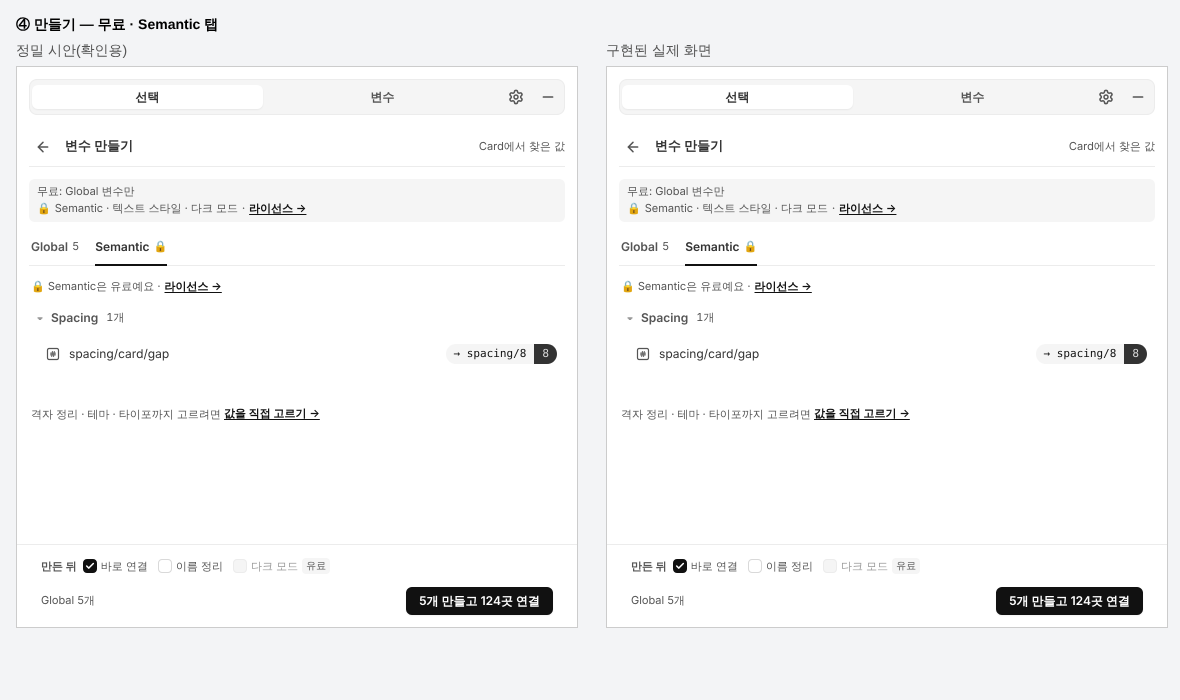
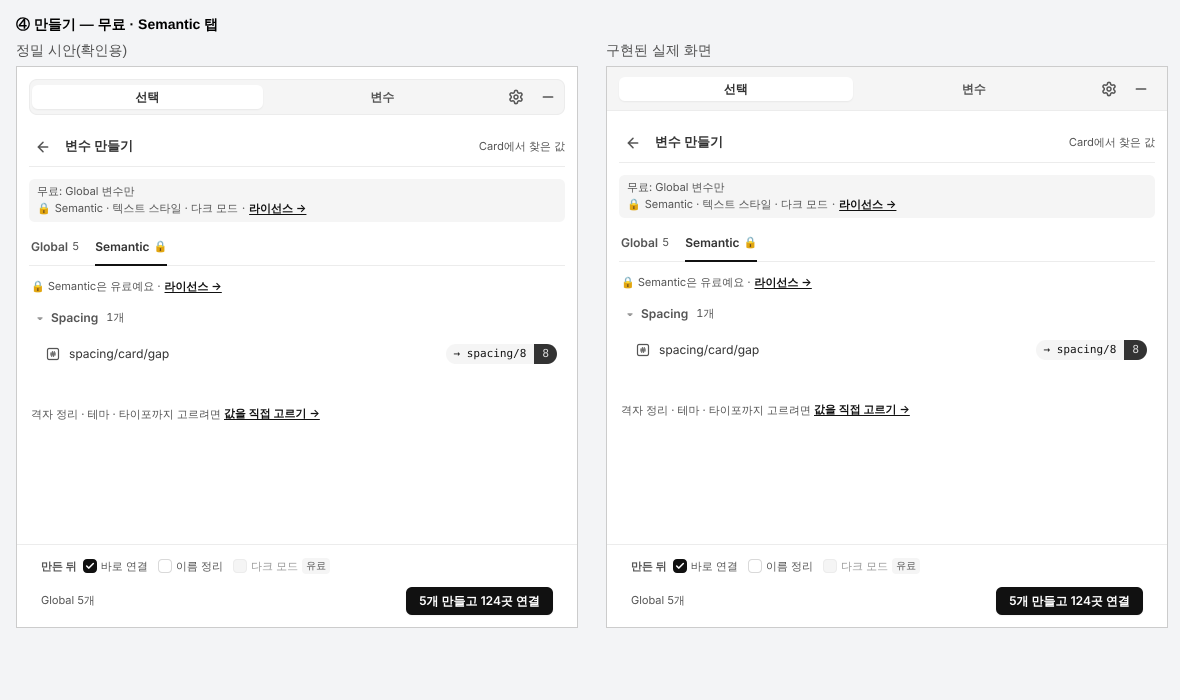
DS-3c S3-D20 구현 — 맨 위 탭 줄을 창 위 · 좌우에 붙은 띠로(Figma Tabs bar · 높이 44 새 토큰 size-tabs-bar)
- ui.html .tabs: 음수 바깥 여백으로 본문 여백 덮음 · 아래 1px 선 · 테두리/둥근 모서리 없음 · 안쪽 좌우 12, sticky 대체값 44 기준
- design-system 크기 표 · Navigation 행, verify 9번 기준 44 · DS-3c 탭 띠 검사, 실제 화면 docs/qa/ds3c

Claude-Session: https://claude.ai/code/session_01PEuwdZ56a69HwcFZB3F6pa

diff --git a/dist/ui.html b/dist/ui.html
@@ -187,6 +187,7 @@ SOFTWARE.
       --size-modal-md: 400px;
       --size-header: 40px;
       --size-nav: 36px;
+      --size-tabs-bar: 44px;
       --size-action-bar: 52px;
       --size-compact: 26px;
       --size-hit-min: 24px;
@@ -674,7 +675,7 @@ button.ds-tag { border: 0; cursor: pointer; }
        --head-top(= 두 바의 실제 높이)은 ui.ts가 측정해 넣는다. z-index는 두 바(3·2)보다 아래. */
     .step-head {
       display: flex; align-items: center; gap: var(--space-2); cursor: pointer; user-select: none;
-      position: sticky; top: var(--head-top, 71px); z-index: var(--z-raised);
+      position: sticky; top: var(--head-top, 44px); z-index: var(--z-raised);
       background: var(--color-surface-primary); padding-bottom: var(--space-2);
     }
     .step-head + .step-body { margin-top: 0; } /* 헤더 padding-bottom이 간격을 대신 — 본문이 비쳐 보이는 틈 방지 */
@@ -705,11 +706,12 @@ button.ds-tag { border: 0; cursor: pointer; }
     label.inline { display: inline-flex; gap: var(--space-1); align-items: center; color: var(--color-text-secondary); }
     .status { margin-top: var(--space-1); min-height: 15px; color: var(--color-text-secondary); }
 
-    /* ── 탭바 (세그먼트 컨트롤) ── */
+    /* ── 탭바 — 창 위 · 좌우에 붙은 띠(ia-v4 §4.1b S3-D20 — Figma Tabs bar): 본문 좌우 · 위 여백 12를 음수 바깥 여백으로 덮는다 ── */
     .tabs {
       display: flex; gap: var(--space-1); align-items: center; position: sticky; top: 0; z-index: var(--z-sticky-top);
-      background: var(--color-surface-secondary); border: 1px solid var(--color-border-default);
-      padding: var(--space-0-5); min-height: var(--size-nav); border-radius: var(--radius-medium); margin: 0 0 var(--space-3);
+      background: var(--color-surface-secondary); border: 0; border-bottom: 1px solid var(--color-border-default);
+      padding: 0 var(--space-3); min-height: var(--size-tabs-bar); border-radius: 0;
+      margin: calc(-1 * var(--space-3)) calc(-1 * var(--space-3)) var(--space-3);
     }
     .tab-list { display: flex; gap: var(--space-1); flex: 1 1 auto; min-width: 0; }
     /* [—] 최소화 — 24×24 이상(§2.10). */
@@ -872,7 +874,7 @@ button.ds-tag { border: 0; cursor: pointer; }
     .toolbar {
       display: flex; flex-wrap: wrap; gap: var(--space-1); align-items: center;
       padding-bottom: var(--space-2); border-bottom: 1px solid var(--color-border-default);
-      position: sticky; top: var(--toolbar-top, 95px); z-index: var(--z-raised); background: var(--color-surface-primary);
+      position: sticky; top: var(--toolbar-top, 70px); z-index: var(--z-raised); background: var(--color-surface-primary);
     }
     .toolbar .grow { flex: 1 1 auto; } /* 주 버튼을 오른쪽 끝으로 미는 공백 */
     /* 아래에 목록이 없는 카드(내보내기)는 구분선을 긋지 않는다 — 가를 것이 없다. */
@@ -1295,13 +1297,13 @@ button.ds-tag { border: 0; cursor: pointer; }
     .vt-group .lbl { overflow: hidden; text-overflow: ellipsis; white-space: nowrap; min-width: 0; }
     .vt-group .more-unused { flex: 0 0 auto; min-height: 24px; font-size: var(--font-size-sm); }
     /* ── 변수 목록 결정 B(§4.4): 머리줄 고정 · 사이드바(128px, 고정 + 따로 스크롤) · 오른쪽 목록 머리 고정 ── */
-    #varList .list-head { position: sticky; top: var(--tabs-h, 41px); z-index: var(--z-sticky-top); background: var(--color-background-primary); padding: var(--space-0-5) 0 var(--space-1); margin: 0; }
+    #varList .list-head { position: sticky; top: var(--tabs-h, 44px); z-index: var(--z-sticky-top); background: var(--color-background-primary); padding: var(--space-0-5) 0 var(--space-1); margin: 0; }
     .vl-split { display: flex; align-items: flex-start; border-top: 1px solid var(--color-border-default);
       /* 사이드바 아래까지 경계선(ia-v4 §4.6 B.41 VO-D2) — 사이드바 border-right와 같은 x 127px */
       background: linear-gradient(to right, transparent 127px, var(--color-border-default) 127px 128px, transparent 128px) no-repeat; }
     .vl-side {
-      width: 128px; flex: 0 0 128px; position: sticky; top: var(--side-top, 75px); align-self: flex-start;
-      max-height: calc(100vh - var(--side-top, 75px) - var(--toast-space-side, 0px)); overflow-y: auto; border-right: 1px solid var(--color-border-default);
+      width: 128px; flex: 0 0 128px; position: sticky; top: var(--side-top, 78px); align-self: flex-start;
+      max-height: calc(100vh - var(--side-top, 78px) - var(--toast-space-side, 0px)); overflow-y: auto; border-right: 1px solid var(--color-border-default);
       padding: var(--space-1) var(--space-1); background: var(--color-surface-primary);
     }
     .vs-item { display: flex; align-items: center; gap: var(--nav-item-gap); height: 28px; min-height: 28px; padding: 0 var(--space-2); border-radius: var(--radius-small); color: var(--color-text-primary); cursor: pointer; font-size: var(--font-size-md); font-weight: var(--font-weight-regular); }
@@ -1319,7 +1321,7 @@ button.ds-tag { border: 0; cursor: pointer; }
     .vs-item[aria-selected="true"] .vs-badge { background: var(--nav-selected-badge-bg); color: var(--color-text-inverse); }
     .vs-sep { height: 1px; background: var(--color-border-default); margin: var(--space-1) var(--space-1); }
     .vl-main { flex: 1 1 auto; min-width: 0; }
-    .vl-head { position: sticky; top: var(--side-top, 75px); z-index: var(--z-sticky); display: flex; align-items: center; gap: var(--space-1); height: 32px; padding: 0 var(--space-1) 0 var(--space-2); background: var(--color-surface-primary); border-bottom: 1px solid var(--color-border-default); }
+    .vl-head { position: sticky; top: var(--side-top, 78px); z-index: var(--z-sticky); display: flex; align-items: center; gap: var(--space-1); height: 32px; padding: 0 var(--space-1) 0 var(--space-2); background: var(--color-surface-primary); border-bottom: 1px solid var(--color-border-default); }
     .vl-title { font-weight: var(--font-weight-bold); overflow: hidden; text-overflow: ellipsis; white-space: nowrap; min-width: 0; outline: none; }
     .vl-head .search-box:not([hidden]) { position: absolute; inset: 3px 4px; display: flex; gap: var(--space-1); align-items: center; background: var(--color-surface-primary); }
     .vl-head .search-box input { flex: 1 1 auto; min-width: 0; }

diff --git a/src/ui.html b/src/ui.html
@@ -56,7 +56,7 @@
        --head-top(= 두 바의 실제 높이)은 ui.ts가 측정해 넣는다. z-index는 두 바(3·2)보다 아래. */
     .step-head {
       display: flex; align-items: center; gap: var(--space-2); cursor: pointer; user-select: none;
-      position: sticky; top: var(--head-top, 71px); z-index: var(--z-raised);
+      position: sticky; top: var(--head-top, 44px); z-index: var(--z-raised);
       background: var(--color-surface-primary); padding-bottom: var(--space-2);
     }
     .step-head + .step-body { margin-top: 0; } /* 헤더 padding-bottom이 간격을 대신 — 본문이 비쳐 보이는 틈 방지 */
@@ -87,11 +87,12 @@
     label.inline { display: inline-flex; gap: var(--space-1); align-items: center; color: var(--color-text-secondary); }
     .status { margin-top: var(--space-1); min-height: 15px; color: var(--color-text-secondary); }
 
-    /* ── 탭바 (세그먼트 컨트롤) ── */
+    /* ── 탭바 — 창 위 · 좌우에 붙은 띠(ia-v4 §4.1b S3-D20 — Figma Tabs bar): 본문 좌우 · 위 여백 12를 음수 바깥 여백으로 덮는다 ── */
     .tabs {
       display: flex; gap: var(--space-1); align-items: center; position: sticky; top: 0; z-index: var(--z-sticky-top);
-      background: var(--color-surface-secondary); border: 1px solid var(--color-border-default);
-      padding: var(--space-0-5); min-height: var(--size-nav); border-radius: var(--radius-medium); margin: 0 0 var(--space-3);
+      background: var(--color-surface-secondary); border: 0; border-bottom: 1px solid var(--color-border-default);
+      padding: 0 var(--space-3); min-height: var(--size-tabs-bar); border-radius: 0;
+      margin: calc(-1 * var(--space-3)) calc(-1 * var(--space-3)) var(--space-3);
     }
     .tab-list { display: flex; gap: var(--space-1); flex: 1 1 auto; min-width: 0; }
     /* [—] 최소화 — 24×24 이상(§2.10). */
@@ -254,7 +255,7 @@
     .toolbar {
       display: flex; flex-wrap: wrap; gap: var(--space-1); align-items: center;
       padding-bottom: var(--space-2); border-bottom: 1px solid var(--color-border-default);
-      position: sticky; top: var(--toolbar-top, 95px); z-index: var(--z-raised); background: var(--color-surface-primary);
+      position: sticky; top: var(--toolbar-top, 70px); z-index: var(--z-raised); background: var(--color-surface-primary);
     }
     .toolbar .grow { flex: 1 1 auto; } /* 주 버튼을 오른쪽 끝으로 미는 공백 */
     /* 아래에 목록이 없는 카드(내보내기)는 구분선을 긋지 않는다 — 가를 것이 없다. */
@@ -677,13 +678,13 @@
     .vt-group .lbl { overflow: hidden; text-overflow: ellipsis; white-space: nowrap; min-width: 0; }
     .vt-group .more-unused { flex: 0 0 auto; min-height: 24px; font-size: var(--font-size-sm); }
     /* ── 변수 목록 결정 B(§4.4): 머리줄 고정 · 사이드바(128px, 고정 + 따로 스크롤) · 오른쪽 목록 머리 고정 ── */
-    #varList .list-head { position: sticky; top: var(--tabs-h, 41px); z-index: var(--z-sticky-top); background: var(--color-background-primary); padding: var(--space-0-5) 0 var(--space-1); margin: 0; }
+    #varList .list-head { position: sticky; top: var(--tabs-h, 44px); z-index: var(--z-sticky-top); background: var(--color-background-primary); padding: var(--space-0-5) 0 var(--space-1); margin: 0; }
     .vl-split { display: flex; align-items: flex-start; border-top: 1px solid var(--color-border-default);
       /* 사이드바 아래까지 경계선(ia-v4 §4.6 B.41 VO-D2) — 사이드바 border-right와 같은 x 127px */
       background: linear-gradient(to right, transparent 127px, var(--color-border-default) 127px 128px, transparent 128px) no-repeat; }
     .vl-side {
-      width: 128px; flex: 0 0 128px; position: sticky; top: var(--side-top, 75px); align-self: flex-start;
-      max-height: calc(100vh - var(--side-top, 75px) - var(--toast-space-side, 0px)); overflow-y: auto; border-right: 1px solid var(--color-border-default);
+      width: 128px; flex: 0 0 128px; position: sticky; top: var(--side-top, 78px); align-self: flex-start;
+      max-height: calc(100vh - var(--side-top, 78px) - var(--toast-space-side, 0px)); overflow-y: auto; border-right: 1px solid var(--color-border-default);
       padding: var(--space-1) var(--space-1); background: var(--color-surface-primary);
     }
     .vs-item { display: flex; align-items: center; gap: var(--nav-item-gap); height: 28px; min-height: 28px; padding: 0 var(--space-2); border-radius: var(--radius-small); color: var(--color-text-primary); cursor: pointer; font-size: var(--font-size-md); font-weight: var(--font-weight-regular); }
@@ -701,7 +702,7 @@
     .vs-item[aria-selected="true"] .vs-badge { background: var(--nav-selected-badge-bg); color: var(--color-text-inverse); }
     .vs-sep { height: 1px; background: var(--color-border-default); margin: var(--space-1) var(--space-1); }
     .vl-main { flex: 1 1 auto; min-width: 0; }
-    .vl-head { position: sticky; top: var(--side-top, 75px); z-index: var(--z-sticky); display: flex; align-items: center; gap: var(--space-1); height: 32px; padding: 0 var(--space-1) 0 var(--space-2); background: var(--color-surface-primary); border-bottom: 1px solid var(--color-border-default); }
+    .vl-head { position: sticky; top: var(--side-top, 78px); z-index: var(--z-sticky); display: flex; align-items: center; gap: var(--space-1); height: 32px; padding: 0 var(--space-1) 0 var(--space-2); background: var(--color-surface-primary); border-bottom: 1px solid var(--color-border-default); }
     .vl-title { font-weight: var(--font-weight-bold); overflow: hidden; text-overflow: ellipsis; white-space: nowrap; min-width: 0; outline: none; }
     .vl-head .search-box:not([hidden]) { position: absolute; inset: 3px 4px; display: flex; gap: var(--space-1); align-items: center; background: var(--color-surface-primary); }
     .vl-head .search-box input { flex: 1 1 auto; min-width: 0; }

diff --git a/docs/design-system.md b/docs/design-system.md
@@ -234,7 +234,8 @@
 | `size-avatar-sm` · `-md` | 16 · 24px | 사람 · 파일 표시(지금 쓰는 곳 없음 — 모음 화면에서만) |
 | `size-modal-sm` · `-md` | 320 · 400px | Modal 너비(창이 좁으면 `100% - 2 × space-4`까지) |
 | `size-header` | 40px | Plugin Header · Page Header |
-| `size-nav` | 36px | Navigation(탭 줄 — ia-v4 §8) |
+| `size-nav` | 36px | 밑줄형 Tab(`.ds-tab`) · Navigation(`.ds-navbar`) |
+| `size-tabs-bar` | 44px | 맨 위 탭 줄 띠(`.tabs` — Figma Tabs bar, ia-v4 §4.1b S3-D20 · §8) |
 | `size-action-bar` | 52px | Bottom Action Bar |
 | `size-compact` | 26px | 촘촘한 칸 높이 — 알약 · 편집 팝업 칸 · 목록 머리 검색(ia-v4 §8 "검색 26") · 색 입력 (표 아래) |
 | `size-hit-min` | 24px | 누르는 곳 최소(ia-v3 §2.10) |
@@ -242,7 +243,7 @@
 - 버튼 · 입력의 높이는 **`height`로** 정한다(`height: var(--size-control-md)`, 좌우 `padding`만, 위아래 0). 지금처럼 위아래 padding + 줄 높이로 높이를 만들지 않는다.
   - 높이는 **기본 `button` 규칙과 한 줄 입력(`input[type=text]` · `input[type=number]` · `select`)에만** 준다. `textarea`는 높이를 주지 않는다.
   - 아래 버튼은 글자 안에 놓이거나 자기 모양이 있어 `height: auto`로 지금 높이를 지킨다: `button.link` · `button.link-btn`(`.sel-diff` 안 포함 — 24 이하) · `.step-chip` · `.ctx-menu button` · `.var-use` · `.ed-copy`. 작은 한 줄 입력 `.ts-edit input`(텍스트 스타일 편집 줄, 지금 약 21) · `select.r-role`(색 목록 역할 고르개, 지금 약 24)도 `height: auto`로 둔다(위아래 padding 3 → 4는 A.3대로 받아들여 약 2px 커짐). 자기 `height`를 이미 정한 버튼 · 칸(`.bv-switch` · `.mk-row button` · `.tr-edit` 22 · `.subtab` 32 등)은 맞는 크기 토큰이 있으면 토큰으로, 없으면 그 값 그대로(너비 · 높이는 검사 밖 — §3.6 마지막 줄).
-  - 탭: `.tabs`는 `min-height: var(--size-nav)`(36 — 지금과 같음) · 안쪽 `space-0-5`, `.tab-btn`은 `height: var(--size-control-sm)`(24 — 지금과 같음), `.tab-min` 28은 `size-control-md`.
+  - 탭: `.tabs`는 창 위 · 좌우에 붙은 띠 — `min-height: var(--size-tabs-bar)`(44) · 안쪽 좌우 `space-3` · 아래 1px 선(DS-3c S3-D20 — 전에는 `size-nav` 36 둥근 상자 · 안쪽 `space-0-5`), `.tab-btn`은 `height: var(--size-control-sm)`(24 — 지금과 같음), `.tab-min` 28은 `size-control-md`.
 - **26px 칸**은 모두 `size-compact`로 한다(28로 올리지 않음 — 옆 줄과 맞춘 값이라): `.vp-pill .vp-item` · `.make-opts` · `.ed-field`(min-height) · `.ed-go` · `.ed-type` · `.list-head .search-box input` · `input[type="color"]`, 그리고 그 칸과 줄을 맞춘 `line-height: 26px`(`.ed-dl dt` · `dd.ed-plain`).
 - 너비 · 높이의 다른 px(열 폭 88 · 견본 14 등)는 검사하지 않는다 — DS-2에서 컴포넌트로 옮길 때 정한다.
 
@@ -297,7 +298,7 @@
 |---|---|---|---|
 | **PluginLayout**(그릇) | `.ds-layout` — 세로 flex, 높이 100vh. 자식 순서 Header · Navigation · (Page Header) · `.ds-layout__body`(스크롤 — 이것만 `overflow: auto`) · Bottom Action Bar | `color-background-primary` · 본문 양옆 `space-3` | `body` · `.tab-section` |
 | **Plugin Header** | `.ds-header` — 왼쪽 `.ds-header__brand`(로고 16 + 이름 `text-heading-sm`), 가운데 `.ds-header__scope`(선택 대상, 말줄임, `text-body-sm` `color-text-secondary`), 오른쪽 Icon Button(⚙ `settings` · 도움말 `circle-help`). 로고 그림은 DS-3에서 정함. 아래 1px 선 | `size-header` · 좌우 `space-3` · 사이 `space-2` | 없음(SC-D27) |
-| **Navigation** | `.ds-navbar` — 밑줄형 Tab(§6.3)을 한 줄로. 왼쪽 맞춤, 탭 사이 `space-4`. 아래 1px 선 | `size-nav` · 좌우 `space-3` | `.tabs`(세그먼트형) |
+| **Navigation** | `.ds-navbar` — 밑줄형 Tab(§6.3)을 한 줄로. 왼쪽 맞춤, 탭 사이 `space-4`. 아래 1px 선 | `size-nav` · 좌우 `space-3` | `.tabs`(DS-3c S3-D20 뒤 창 위 · 좌우에 붙은 띠 — `size-tabs-bar` 44 · 바탕 `surface-secondary` · 아래 1px 선, 안의 탭은 세그먼트형 그대로) |
 | **Page Header** | `.ds-page-header` — ← Icon Button(sm) · 제목(`text-heading`, 말줄임) · 오른쪽 보조 정보(`text-body-sm` `color-text-secondary`, 말줄임). 아래 1px 선 | `size-header` · 사이 `space-2` | `.sub-head` |
 | **Content Section** | `.ds-section` — `.ds-section__title`(`text-heading-sm`) · `.ds-section__desc`(`text-body-sm` `color-text-secondary`) · 본문. 절 사이 `space-6`, 제목–본문 `space-2` | `space-2` · `space-6` | `.step`(DS-3c 뒤 연결 · 만들기 · 이름 정리 화면 `.step.bind-v4`는 카드 모양 없음 — 탭 패널 위에 바로, ia-v4 §4.1b S3-D18) |
 | **Settings Section** | `.ds-settings` — `.ds-settings__row` 줄 목록: 라벨(왼쪽, `text-label` + 설명 `text-body-sm`) · 컨트롤(오른쪽). 줄 최소 높이 `size-control-md` + 위아래 `space-1`, 줄 사이 구분선 없음 | `text-label` | ⚙ 설정 화면 |
